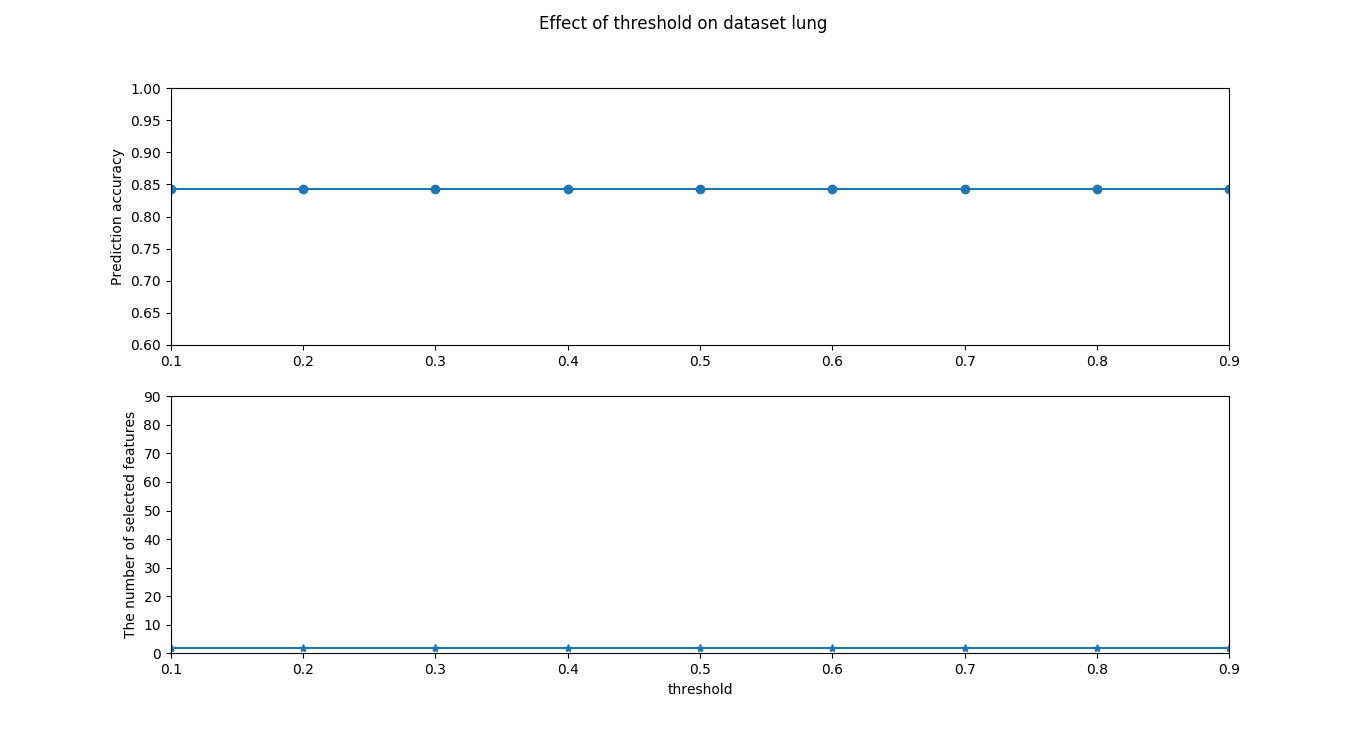
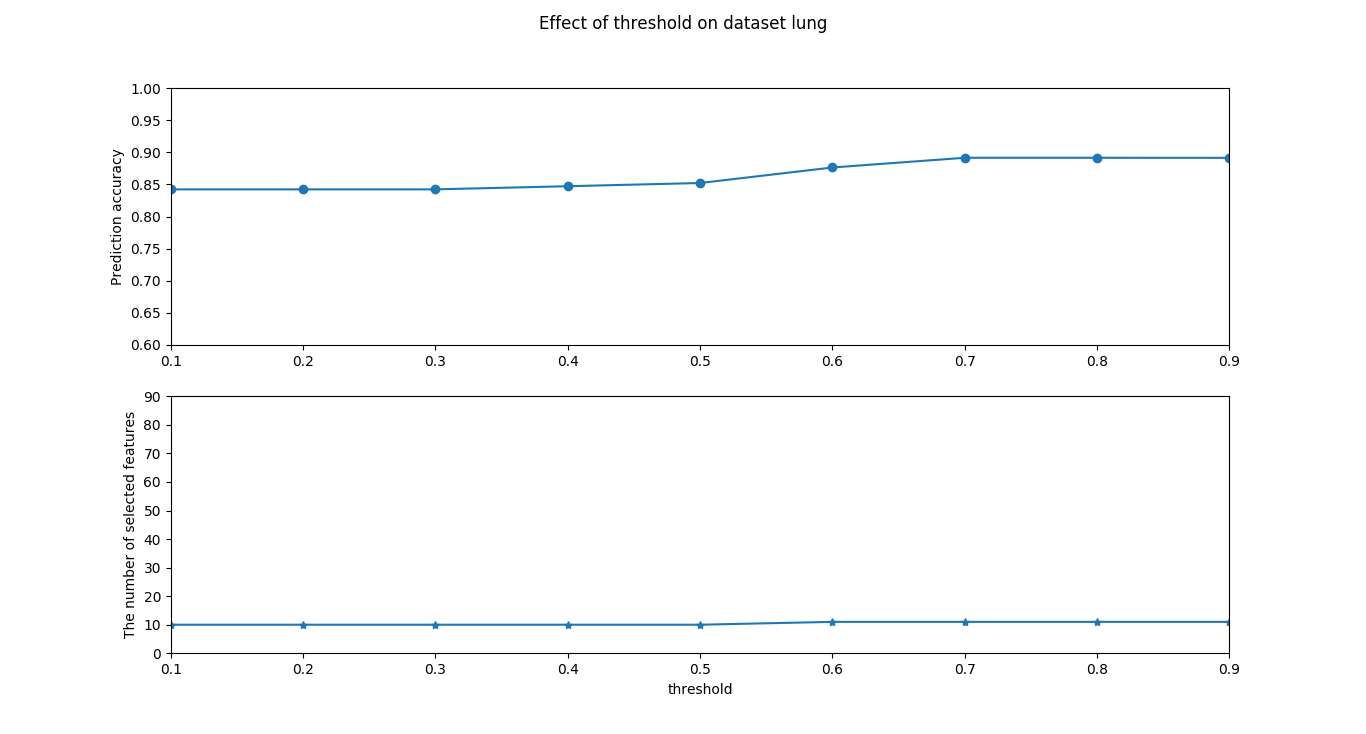
update datas/gene/all_result/threshold/lung and update .

Changed region(s): [[0.123, 0.8392, 0.8917, 0.8992], [0.3382, 0.2098, 0.8917, 0.2698]]

diff --git a/sfs_l21_norm/opt_threshold.py b/sfs_l21_norm/opt_threshold.py
@@ -14,6 +14,6 @@ def opt_threshold(fname, epsilon):
 
 if __name__ == '__main__':
     import sys
-    epsilon = 0.1
+    epsilon = 0.05
     fname = sys.argv[1]
     opt_threshold(fname, epsilon)
